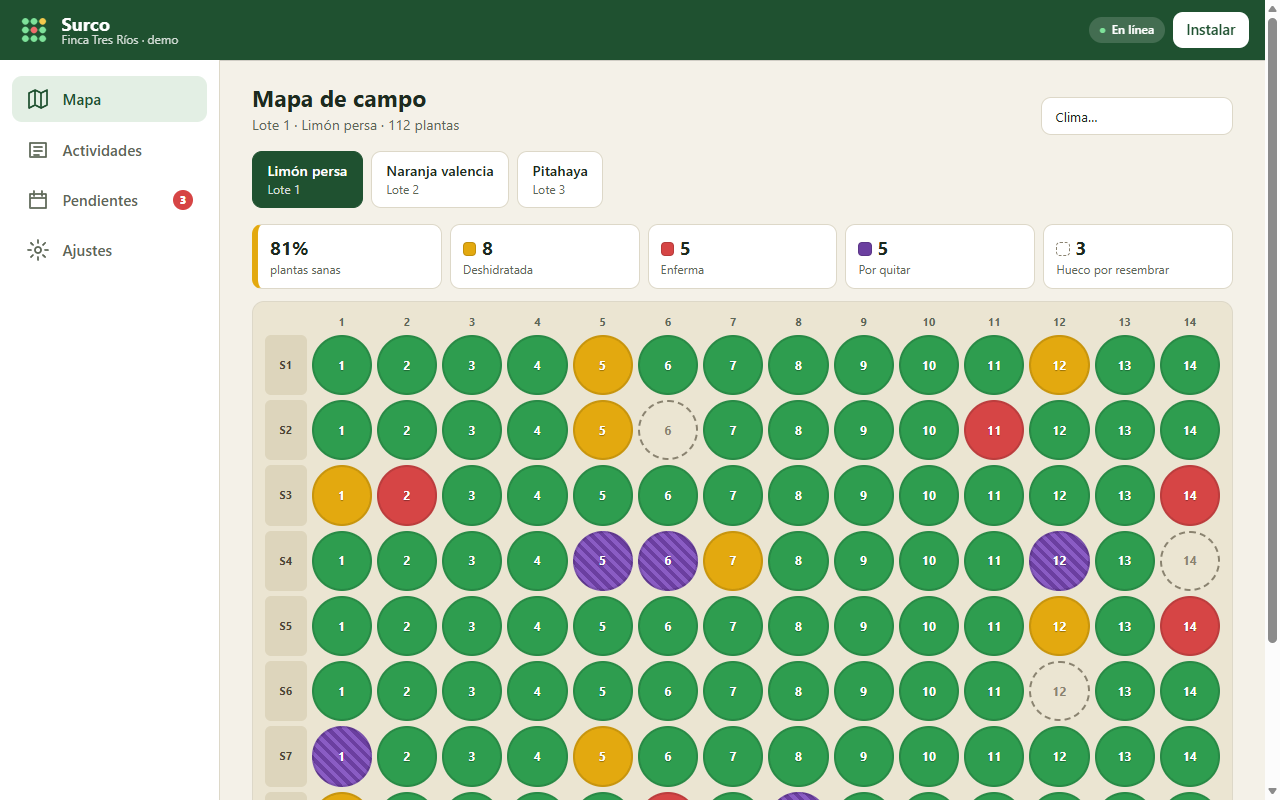
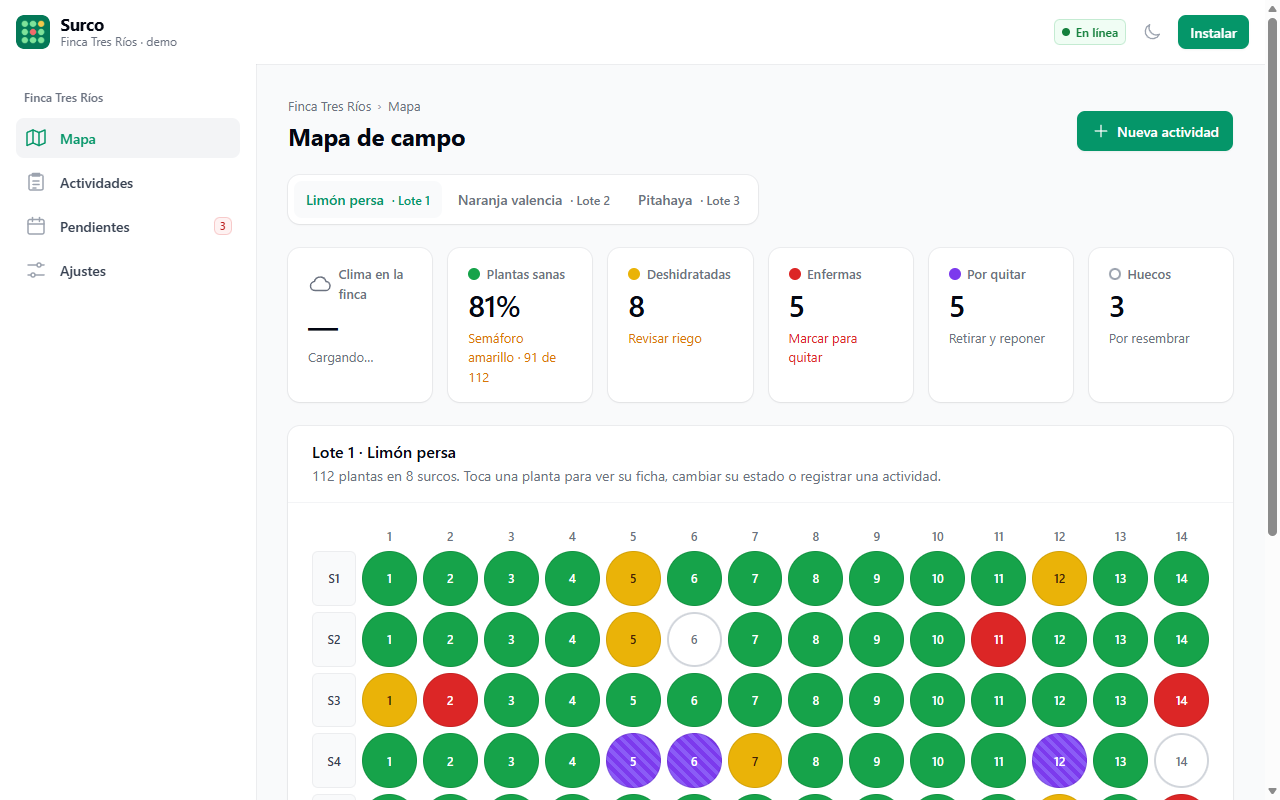
docs: README, capturas y plan actualizados al rediseño

diff --git a/docs/plan-trello.md b/docs/plan-trello.md
@@ -46,9 +46,12 @@
 |---|---|---|---|
 | **E1 hoy** | Repo, commits base, Netlify, entrega | Prueba en tableta real (instalar, foto, GPS, offline) | Prueba en escritorio, Lighthouse, URL en README |
 | **E0 estudio** | `sw.js`, `db.js` | `app.js`, `mapa.js`, `actividades.js`, cámara/GPS | `manifest.json`, notificaciones, `pendientes.js`, `ajustes.js` |
-| **E1+ Filament** | Dividir CSS, rediseño de Pendientes y Ajustes, merge y despliegue `v1.1.0` | Rediseño del Mapa (widgets) y de Actividades (tabla/form) | Tokens de diseño, fuente, shell (barra/sidebar), botones, badges, modo oscuro |
-| **E2 reporte** | Intro, Service Worker, IndexedDB, conclusiones | App Shell + manifest, Web APIs | Portada, pruebas + Lighthouse, formato APA, PDF |
-| **E3 demo** | Guion, banco de preguntas, plan B | Instalación en vivo y modo offline | Permisos en vivo y consola limpia |
+| **E1+ Filament** | Dividir CSS, rediseño de Pendientes y Ajustes, merge y despliegue `v1.1.0` | Rediseño del Mapa (widgets) y de Actividades (tabla/form), modo oscuro | Tokens de diseño, fuente, shell (barra/sidebar), botones, badges, revisión responsiva |
+| **E2 reporte** | Intro, Service Worker, IndexedDB, conclusiones | App Shell + manifest, Web APIs, ortografía y APA | Portada, pruebas + Lighthouse, PDF y entrega |
+| **E3 demo** | Guion, banco de preguntas, plan B | Instalación en vivo, modo offline, consola limpia | Permisos en vivo |
+| **Total en Trello** | 15 tarjetas | 12 tarjetas | 12 tarjetas |
+
+> Tablero real: https://trello.com/b/3RUkARDb/surco-pwa (creado el 25-nov). Si cambias algo allá, este archivo puede quedar desactualizado: **Trello es la fuente de verdad**.
 
 ---
 
@@ -121,7 +124,7 @@ E1P-09 Merge, subir VERSION a v1.1.0 y desplegar
 | E1P-04 | **Ángel** | ☐ Indicadores como **Stats widgets**: etiqueta pequeña gris, número grande, descripción con color · ☐ Mapa dentro de una **sección** (encabezado con título + descripción, cuerpo con padding) · ☐ Pestañas de cultivo como *tabs* de Filament · ☐ Mantener los colores semáforo de las plantas · ☐ PR |
 | E1P-05 | **Ángel** | ☐ Lista de actividades en **tabla** (escritorio) / tarjetas (móvil) con badges por tipo · ☐ Formulario en **secciones** ("Datos", "Evidencia") como los *Forms* de Filament · ☐ Diálogo de la ficha de planta con estilo de *modal* de Filament · ☐ PR |
 | E1P-06 | **Josué** | ☐ Pendientes como **tabla** con columnas Tarea / Cultivo / Fecha / Estado · ☐ Badges: vencida = *danger*, hoy = *warning*, próxima = *success*, hecha = *gray* · ☐ Ajustes en **secciones** de Filament · ☐ PR |
-| E1P-07 | **Andrey** | ☐ Paleta oscura (fondo gray-950, superficies gray-900, anillos white/10) · ☐ Respetar `prefers-color-scheme` · ☐ Interruptor en Ajustes guardado en IndexedDB (`meta`) · ☐ PR |
+| E1P-07 | **Ángel** | ☐ Paleta oscura (fondo gray-950, superficies gray-900, anillos white/10) · ☐ Respetar `prefers-color-scheme` · ☐ Interruptor en Ajustes guardado en IndexedDB (`meta`) · ☐ PR |
 | E1P-08 | **Andrey (QA)** | ☐ Revisar a 375 px, 768 px (tableta) y 1280 px · ☐ Sin desbordes ni textos cortados · ☐ Capturas antes/después para el reporte |
 | E1P-09 | **Josué** | ☐ Merge de los PR revisados · ☐ `VERSION = 'v1.1.0'` en `sw.js` · ☐ `node tools/probar-pwa.mjs` pasa · ☐ Push → Netlify despliega · ☐ En la tableta aparece "Actualizar" y se ve el diseño nuevo |
 
@@ -170,7 +173,7 @@ E2-10 Exportar a PDF y entregar
 | E2-06 | **Ángel** | Cámara, GPS y notificaciones: código + **flujo de permisos** (concedido / negado / no soportado) + capturas | README §7, `js/apis.js` |
 | E2-07 | **Andrey** | Capturas offline **en dispositivo real** (de E1-03) + Lighthouse **con análisis** de cada métrica + resultado de las 17 pruebas automáticas | `screenshots/`, `tools/probar-pwa.mjs` |
 | E2-08 | **Todos** (Josué integra) | Análisis crítico: retos, aprendizajes y mejoras futuras (sincronización con servidor, mapa satelital...) | — |
-| E2-09 | **Andrey** | Ortografía, márgenes, numeración de figuras y referencias **APA 7** (MDN, web.dev, W3C) | — |
+| E2-09 | **Ángel** | Ortografía, márgenes, numeración de figuras y referencias **APA 7** (MDN, web.dev, W3C) | — |
 | E2-10 | **Andrey** | PDF que abre bien + nomenclatura correcta + subido a tiempo | — |
 
 ---
@@ -193,6 +196,6 @@ E3-07 Plan B: video grabado, segundo dispositivo y datos móviles
 | E3-02 | **Ángel** | ☐ **Antes de la demo:** desinstalar la app y borrar los datos del sitio (si ya estaba instalada, la rúbrica la baja a "Regular") · ☐ Instalar desde la URL pública · ☐ Mostrar el ícono y la splash |
 | E3-03 | **Ángel** | ☐ Modo avión → abrir app → registrar actividad → verla en la lista y en la ficha de la planta |
 | E3-04 | **Andrey** | ☐ Restablecer los permisos del sitio para que **se vea la solicitud** · ☐ Mostrar también qué pasa si se niega uno |
-| E3-05 | **Andrey** | ☐ Tableta conectada por USB a la laptop · ☐ `chrome://inspect` con la consola abierta · ☐ Cero errores en rojo |
+| E3-05 | **Ángel** | ☐ Tableta conectada por USB a la laptop · ☐ `chrome://inspect` con la consola abierta · ☐ Cero errores en rojo |
 | E3-06 | **Josué** | ☐ 15 preguntas probables (SW, caché, IndexedDB, manifest, permisos) con respuesta · ☐ **Los 3** las practican: el docente pregunta a cualquiera, y si solo uno sabe la calificación baja a "Regular" |
 | E3-07 | **Josué** | ☐ Video de la demo completa · ☐ Celular con la app como respaldo · ☐ Datos móviles por si falla el WiFi del aula |

diff --git a/README.md b/README.md
@@ -67,13 +67,15 @@ flowchart LR
 ├── offline.html          Página de respaldo sin conexión
 ├── manifest.json         Web App Manifest
 ├── sw.js                 Service Worker
-├── css/app.css           Estilos (móvil primero)
+├── css/                  base.css (tokens estilo Filament, shell, componentes) · mapa · actividades · pendientes-ajustes
 ├── js/
 │   ├── app.js            Arranque, registro del SW, enrutador, instalación
 │   ├── db.js             Capa IndexedDB (CRUD con promesas)
 │   ├── apis.js           Cámara, geolocalización, notificaciones, permisos
 │   ├── datos-demo.js     Datos ficticios iniciales
 │   ├── ui.js             Utilidades de interfaz
+│   ├── iconos.js         Íconos de trazo (estilo outline)
+│   ├── tema.js           Modo claro / oscuro
 │   └── vistas/           mapa.js · actividades.js · pendientes.js · ajustes.js
 ├── icons/                PNG 32, 96, 180, 192, 512 y maskable
 ├── screenshots/          Capturas (manifest y README)
@@ -100,7 +102,7 @@ La app muestra su propio botón **Instalar** usando el evento `beforeinstallprom
 
 | Evento | Qué hace |
 |---|---|
-| `install` | Precarga los 19 archivos del App Shell en `surco-shell-v1.0.0`. No llama a `skipWaiting()`: la versión nueva espera a que el usuario pulse **Actualizar**. |
+| `install` | Precarga los 24 archivos del App Shell en `surco-shell-v1.1.0`. No llama a `skipWaiting()`: la versión nueva espera a que el usuario pulse **Actualizar**. |
 | `activate` | **Borra las cachés de versiones anteriores** y toma el control de las pestañas (`clients.claim()`). |
 | `fetch` | Elige la estrategia según el recurso (tabla siguiente). |
 | `message` | `SKIP_WAITING` activa la versión nueva; `VERSION` responde la versión de caché. |
@@ -154,11 +156,11 @@ Los Service Workers funcionan en `localhost` sin HTTPS. En un dispositivo real h
 node tools/probar-pwa.mjs
 ```
 
-Abre Microsoft Edge (o Chrome) sin ventana y comprueba 17 puntos:
+Abre Microsoft Edge (o Chrome) sin ventana y comprueba 18 puntos:
 - App Shell y registro del Service Worker.
 - Precache y caché dinámica.
 - Manifest e instalabilidad.
-- Cámara (simulada), GPS (simulado) y notificaciones.
+- Modo oscuro, cámara (simulada), GPS (simulado) y notificaciones.
 - Guardado de la foto y del GPS en IndexedDB.
 - **Funcionamiento con el servidor apagado** y consola sin errores.
 

diff --git a/docs/guia-git-despliegue.md b/docs/guia-git-despliegue.md
@@ -24,8 +24,8 @@ Hagan **un commit por módulo**, no uno gigante. Un historial descriptivo da pun
 git add .gitignore netlify.toml vercel.json .vercelignore docs/
 git commit -m "chore: estructura inicial, configuración de despliegue y plan de trabajo"
 
-git add index.html css/
-git commit -m "feat(shell): App Shell responsivo con navegación inferior/lateral"
+git add index.html css/ js/iconos.js js/tema.js
+git commit -m "feat(shell): App Shell responsivo estilo Filament, íconos y modo oscuro"
 
 git add manifest.json icons/ tools/generar-iconos.mjs
 git commit -m "feat(manifest): manifest de instalación e íconos 192/512/maskable"
